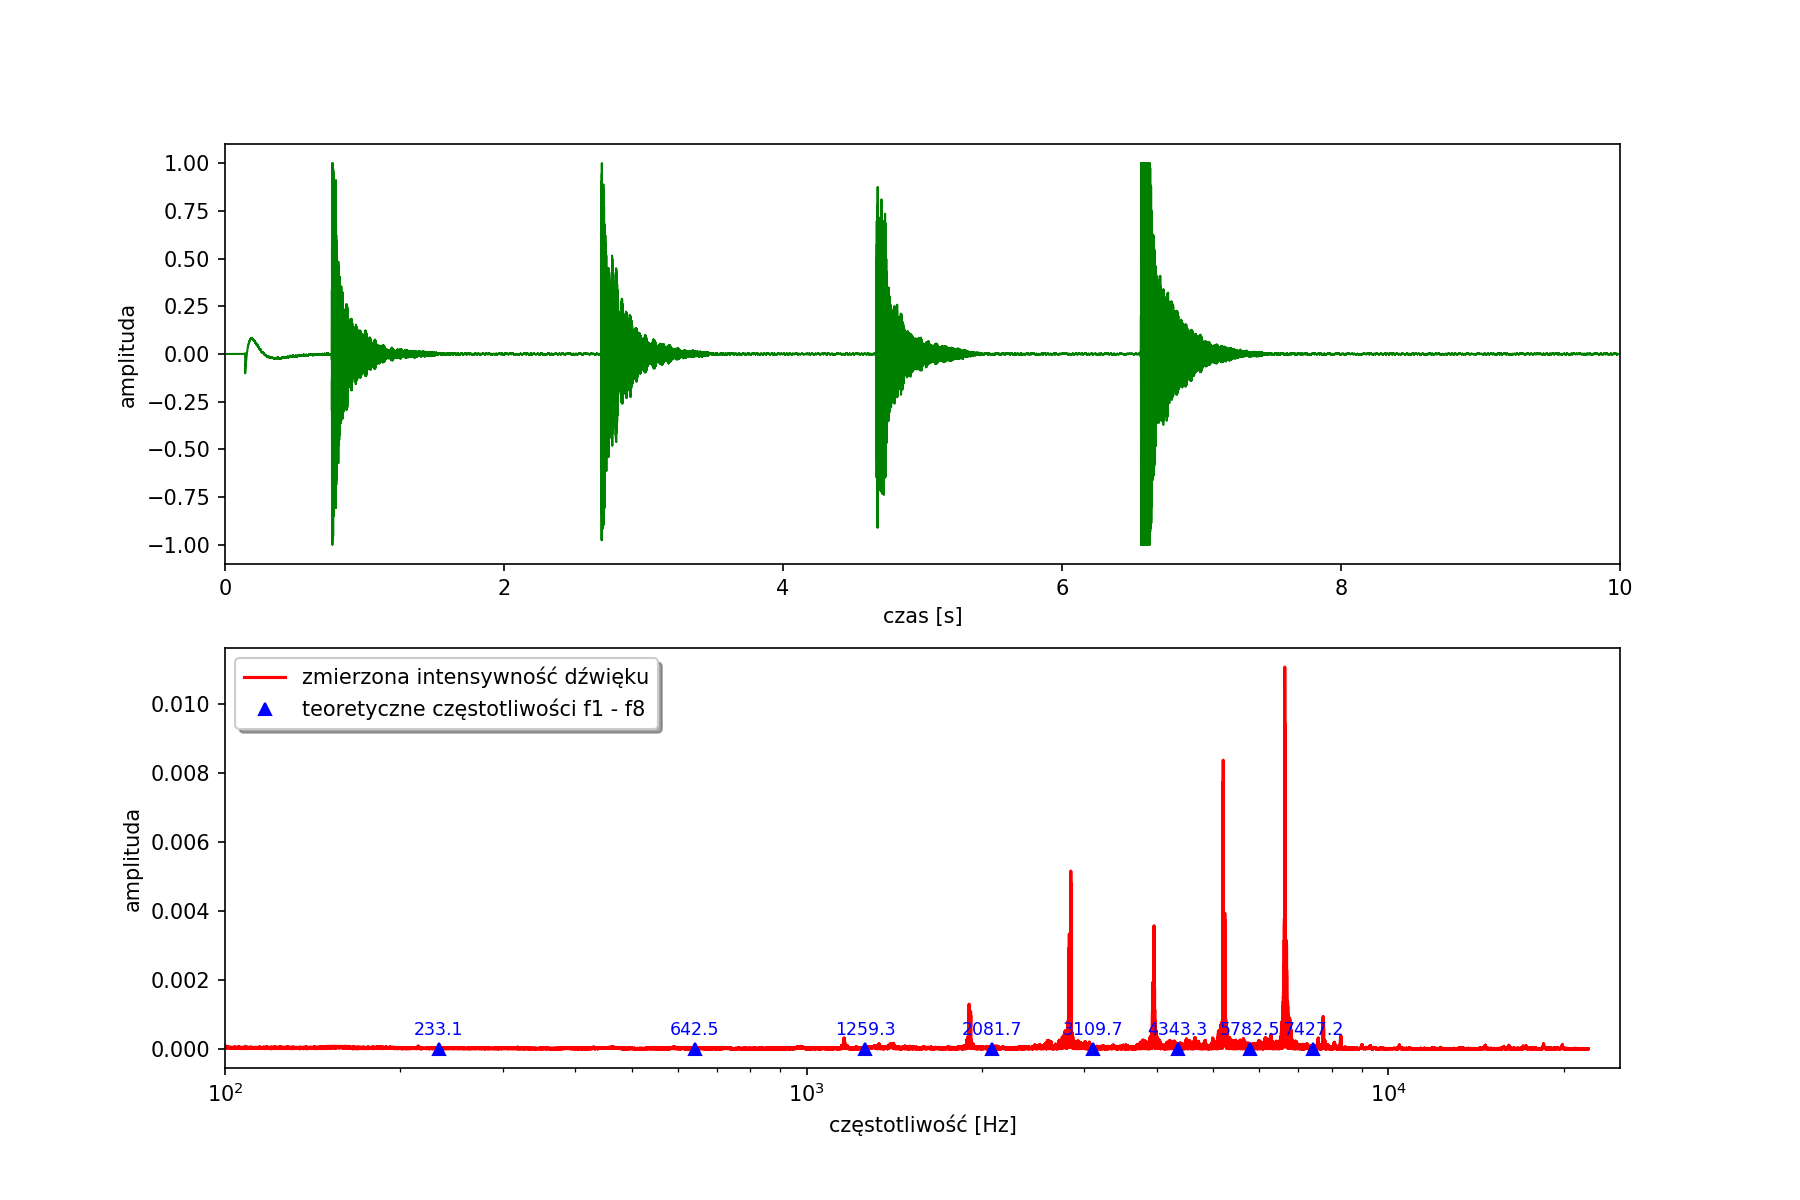
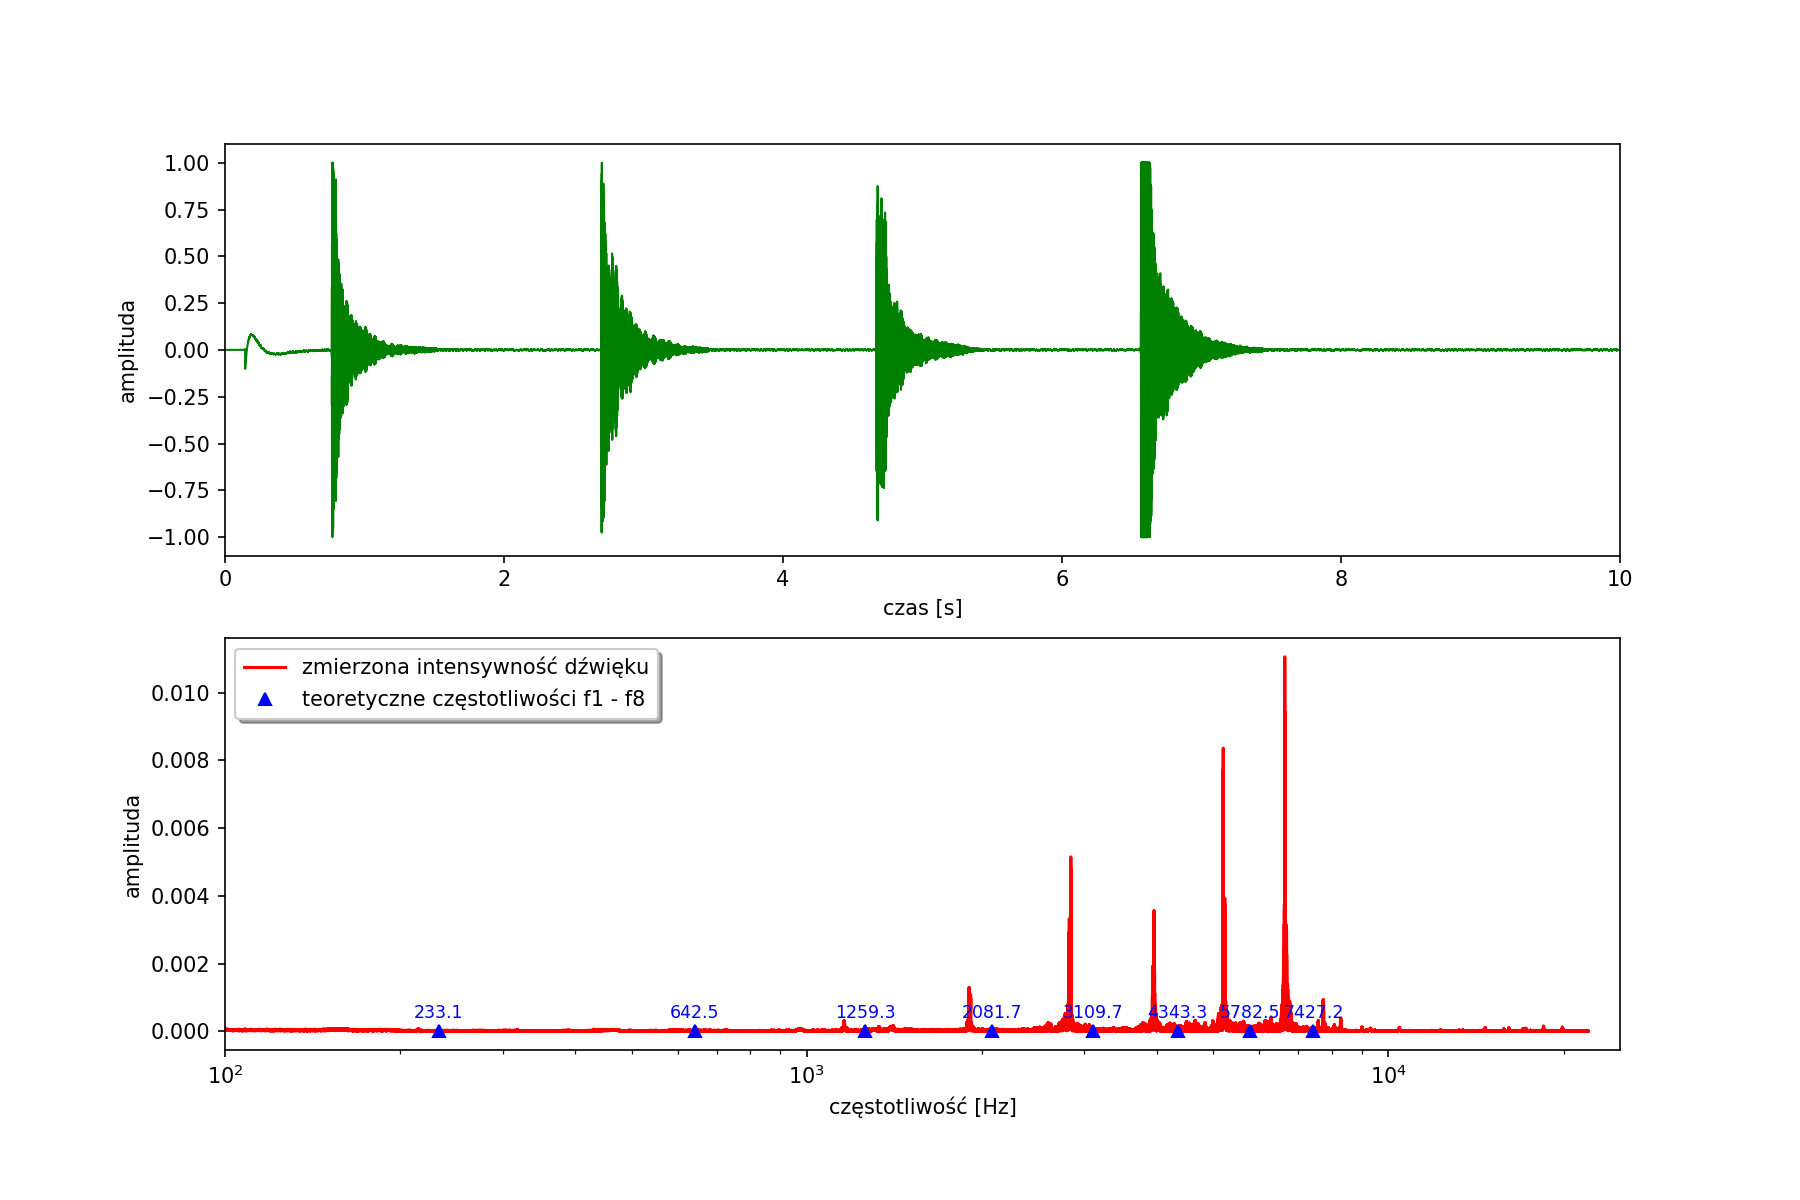
poprawa zapisu obrazków

diff --git a/analiza_audio.py b/analiza_audio.py
@@ -18,11 +18,11 @@ def choose_recording():
     return choice
     
 option = choose_recording()
-material = 'default'
+material = 'blad'
 
 #nowe nagranie
 if option == 'nowe_nagranie':
-    print("Nagrywam 10s")
+    print("Nagrywam 10s, uderz w pret kilka razy")
     rec = ra.Recorder(channels = 2)
     with rec.open('new_recording.wav', 'wb') as recfile:
         recfile.record(duration = 10.0)
@@ -40,23 +40,26 @@ if option == 'nowe_nagranie':
 if option == 'aluminium':
     # parametry aluminium:
     young = 70.0 * 10**9 # [Pa]
-    density = 2710.0 # [kg/m^3]
+    density = 2710.0 # [kg/m^3]nowe_
+    title = 'nowy'
     #parametry pręta z nagrania:
     if material != option:
         thickness = 0.0075 # [m]
         length = 0.41 # [m]
+        title = option
         file_path = 'aluminium.wav'
-
 
 #parametry pręta stalowego     
 if option == 'stal':
     #parametry stali:
     young = 180.0 * 10**9 # [Pa]
     density = 8050.0 # [kg/m^3]
+    title = 'nowy'
     #parametry pręta z nagrania:
     if material != option:
         thickness = 0.0075 # [m]
         length = 0.27 # [m]
+        title = option
         file_path = 'steel.wav'
 
 
@@ -107,7 +110,7 @@ for f in mods:
     plt.annotate("{:.1f}".format(f), xy = (f,0), xytext = (f, 0.0004), color = 'b', ha = 'center', size = 'small')    
 legend = b.legend(loc='upper left', shadow = True)
 
-plt.savefig(option, dpi = 150)
+plt.savefig(title, dpi = 150)
 
 
 
